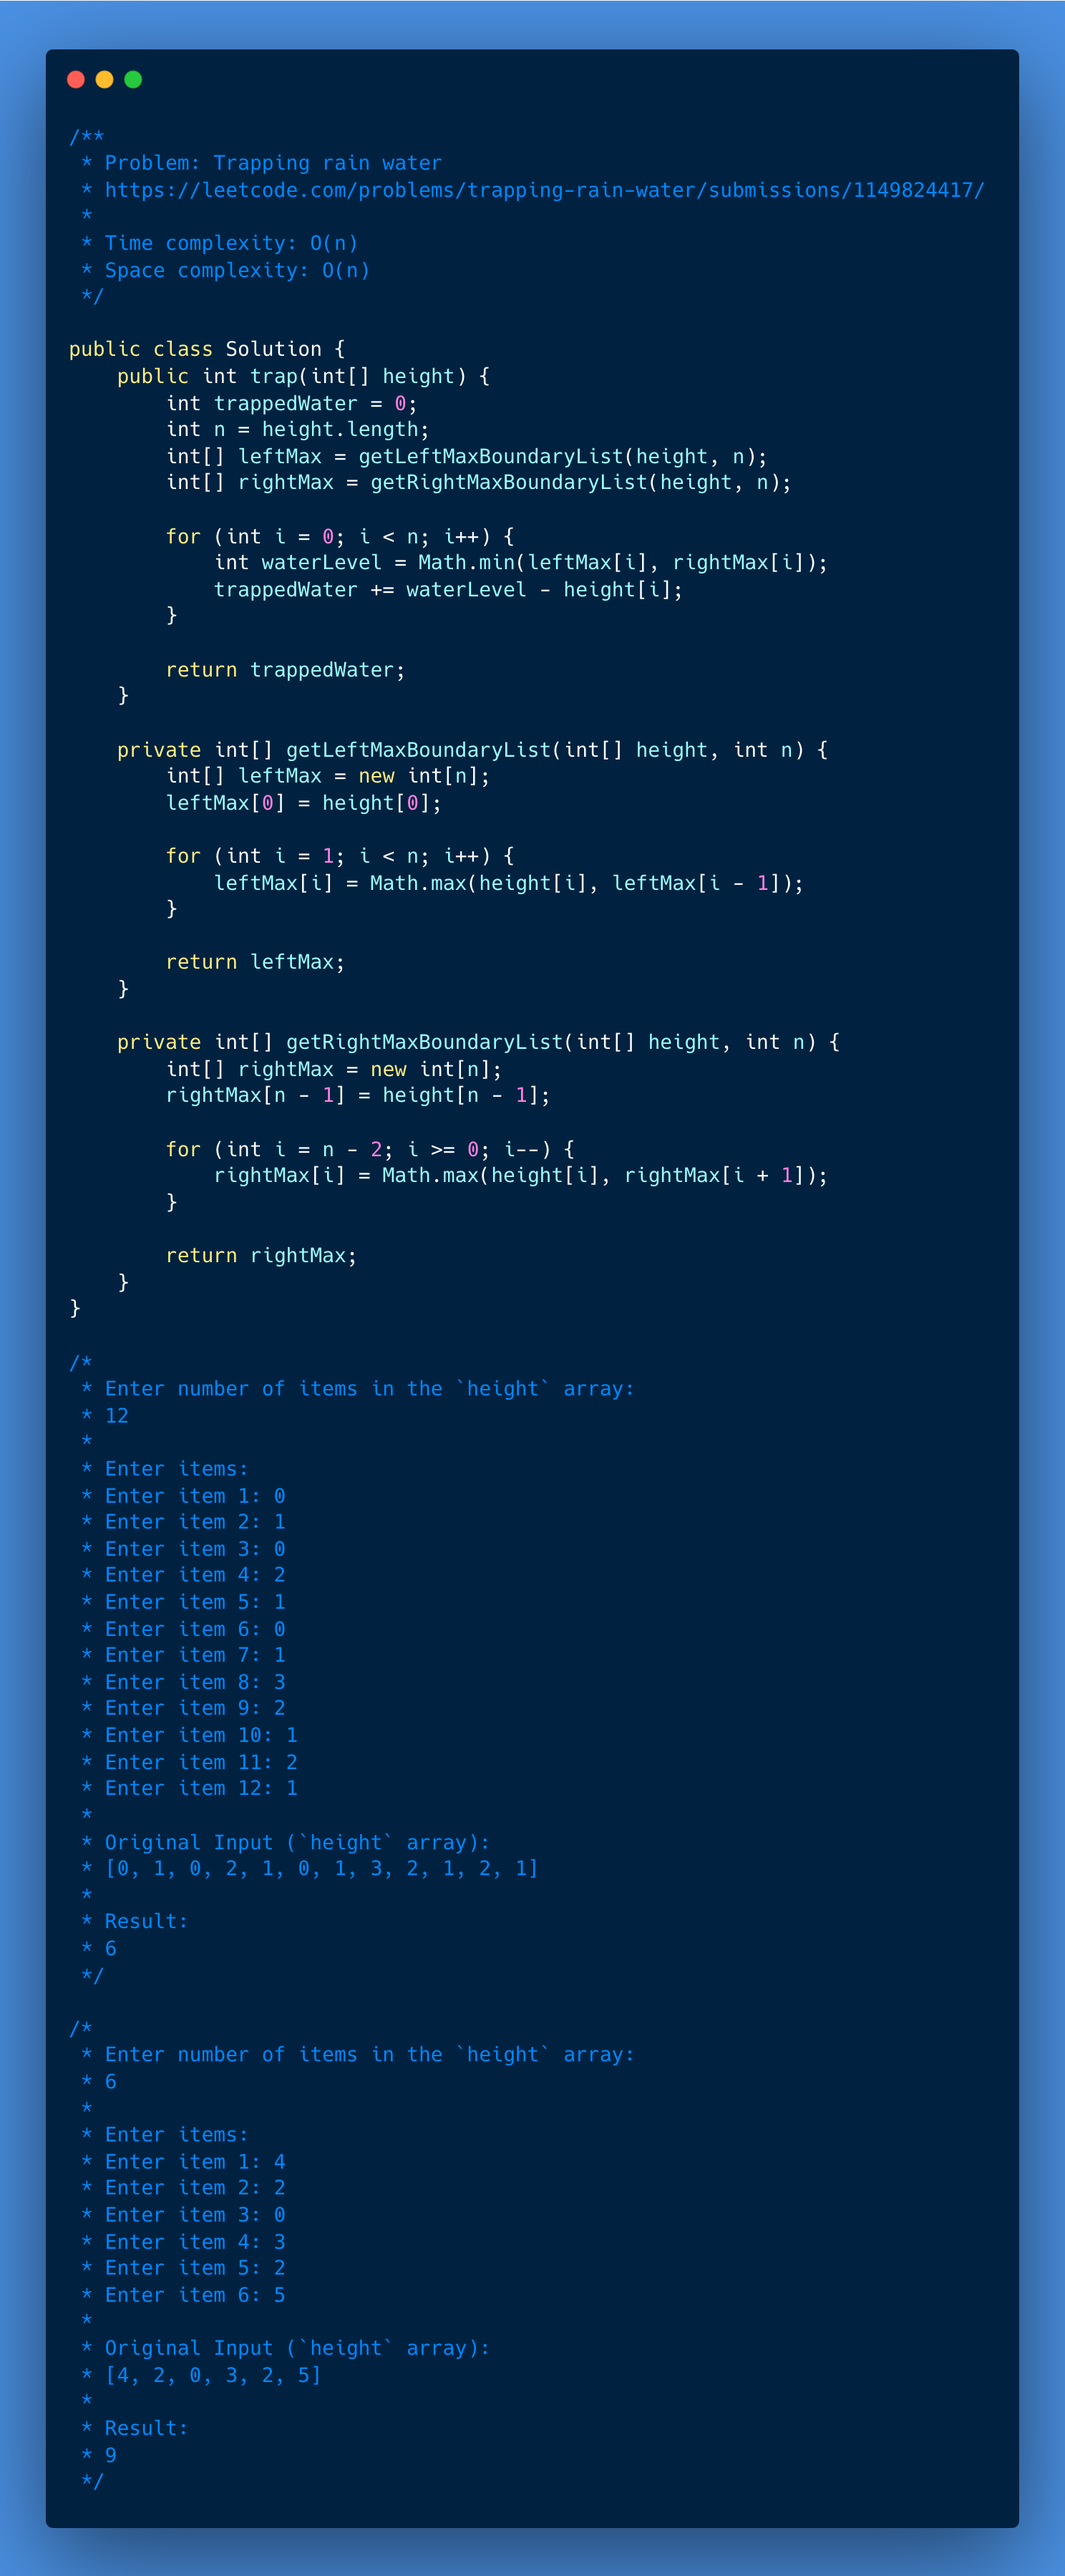
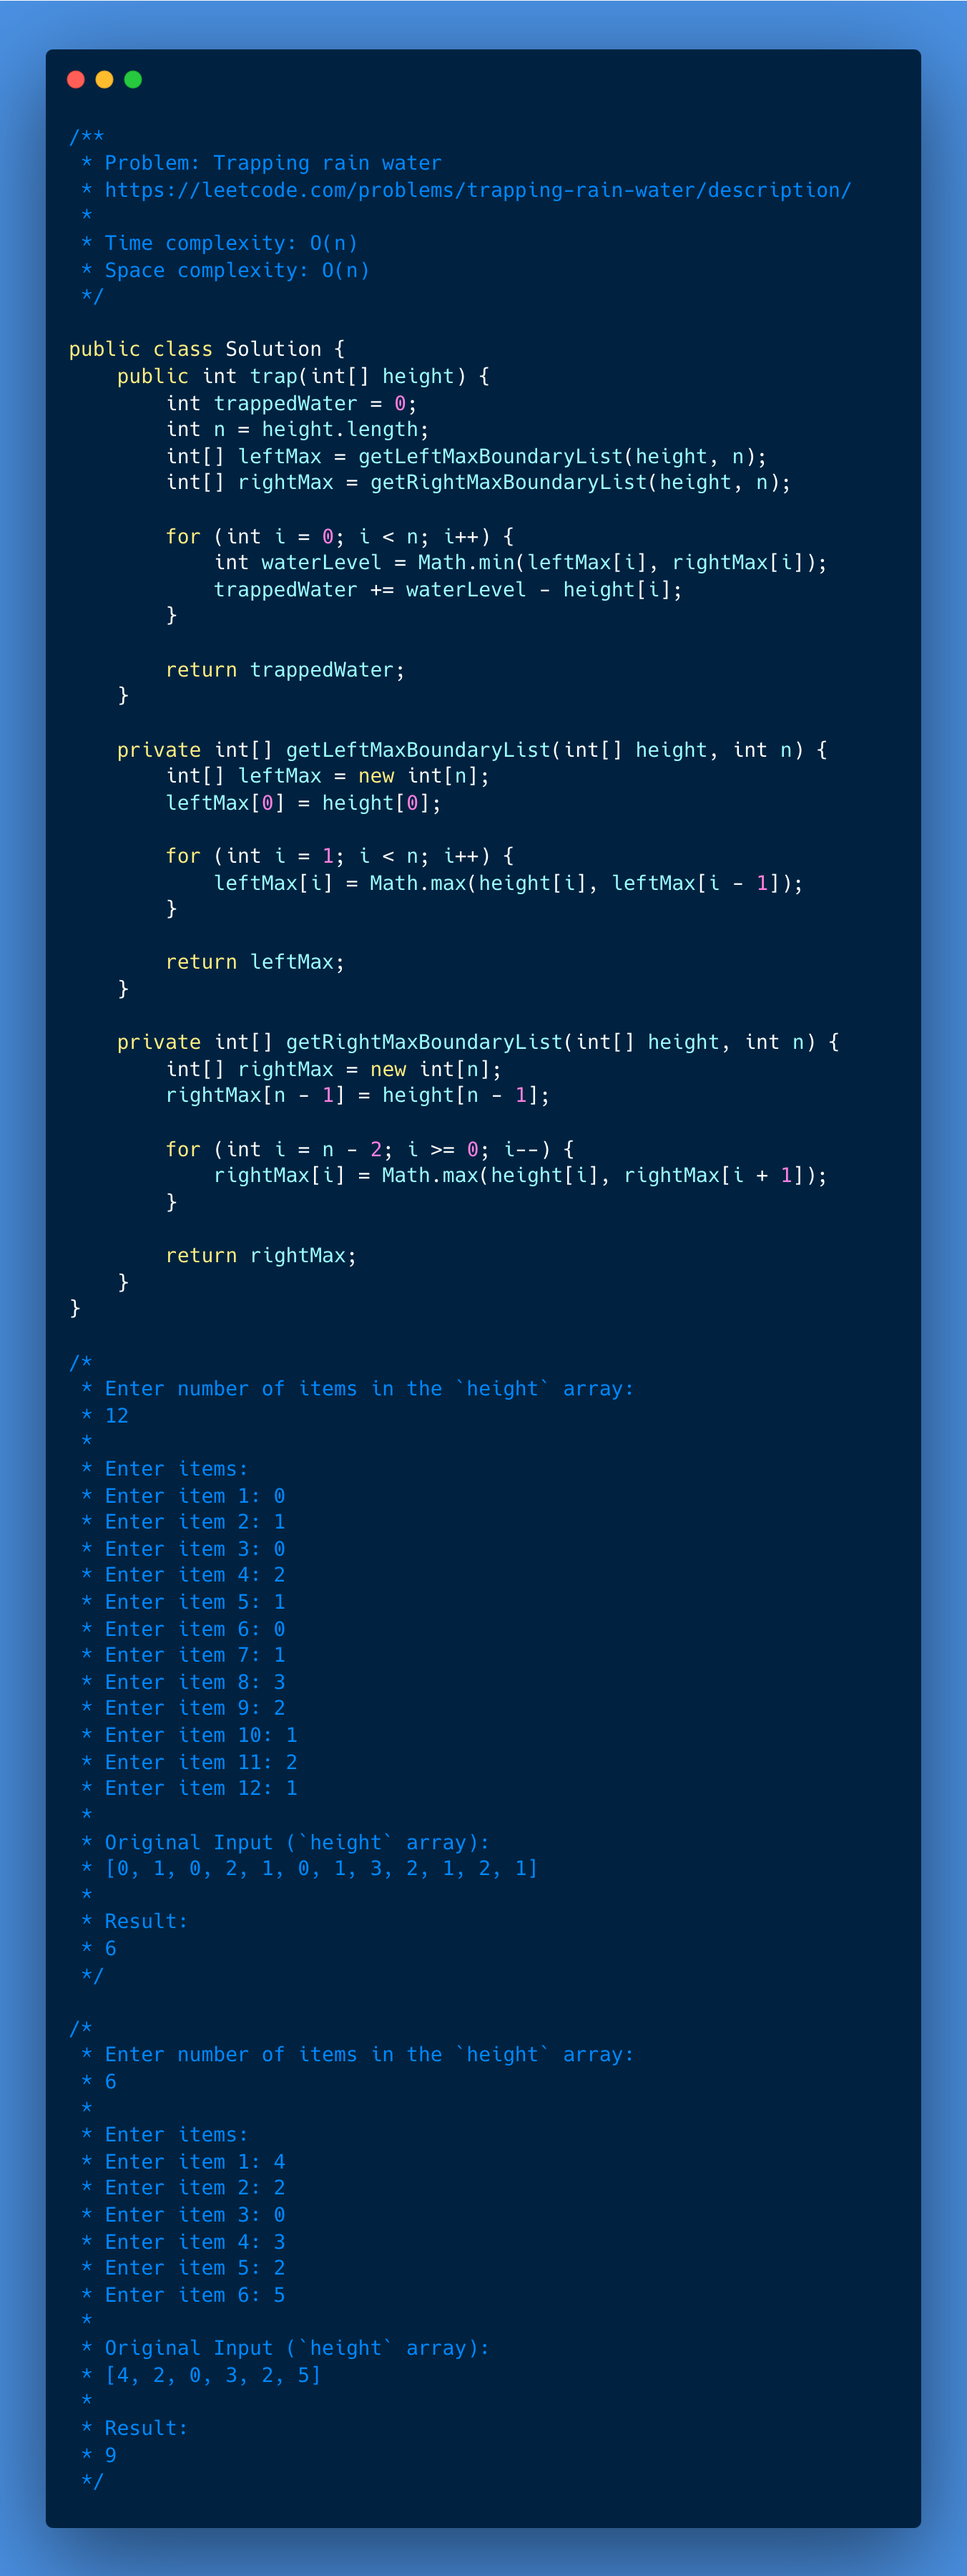
chore: code comments updates

diff --git a/050-buy-sell-stocks/001-solution/Solution.java b/050-buy-sell-stocks/001-solution/Solution.java
@@ -1,6 +1,6 @@
 /**
  * Problem: Best time to buy and sell stocks
- * https://leetcode.com/problems/best-time-to-buy-and-sell-stock/submissions/1149868473/
+ * https://leetcode.com/problems/best-time-to-buy-and-sell-stock/description/
  * 
  * Time Complexity: O(n)
  * Space Complexity: O(1)

diff --git a/056-contains-duplicate/002-solution/Solution.java b/056-contains-duplicate/002-solution/Solution.java
@@ -2,7 +2,7 @@ import java.util.*;
 
 /**
  * Contains Duplicate
- * https://leetcode.com/problems/contains-duplicate/submissions/1150629492/
+ * https://leetcode.com/problems/contains-duplicate/description/
  * 
  * Approach: Using Sets
  * - Time complexity: O(n)

diff --git a/049-trapping-rain-water/001-solution/Solution.java b/049-trapping-rain-water/001-solution/Solution.java
@@ -1,6 +1,6 @@
 /**
  * Problem: Trapping rain water
- * https://leetcode.com/problems/trapping-rain-water/submissions/1149824417/
+ * https://leetcode.com/problems/trapping-rain-water/description/
  * 
  * Time complexity: O(n)
  * Space complexity: O(n)
